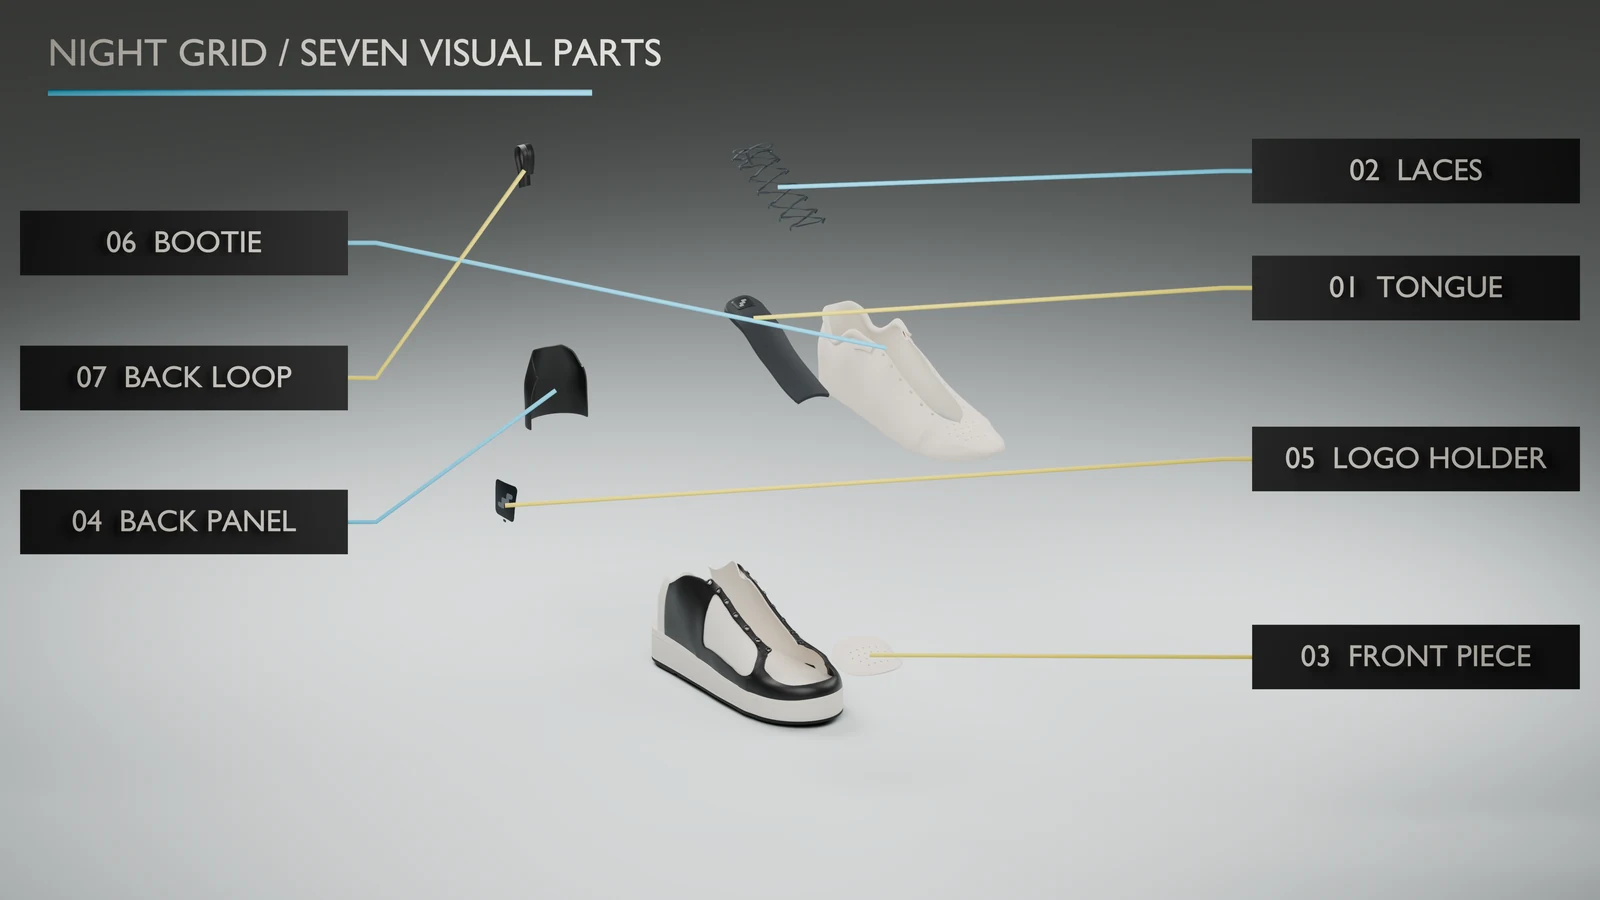
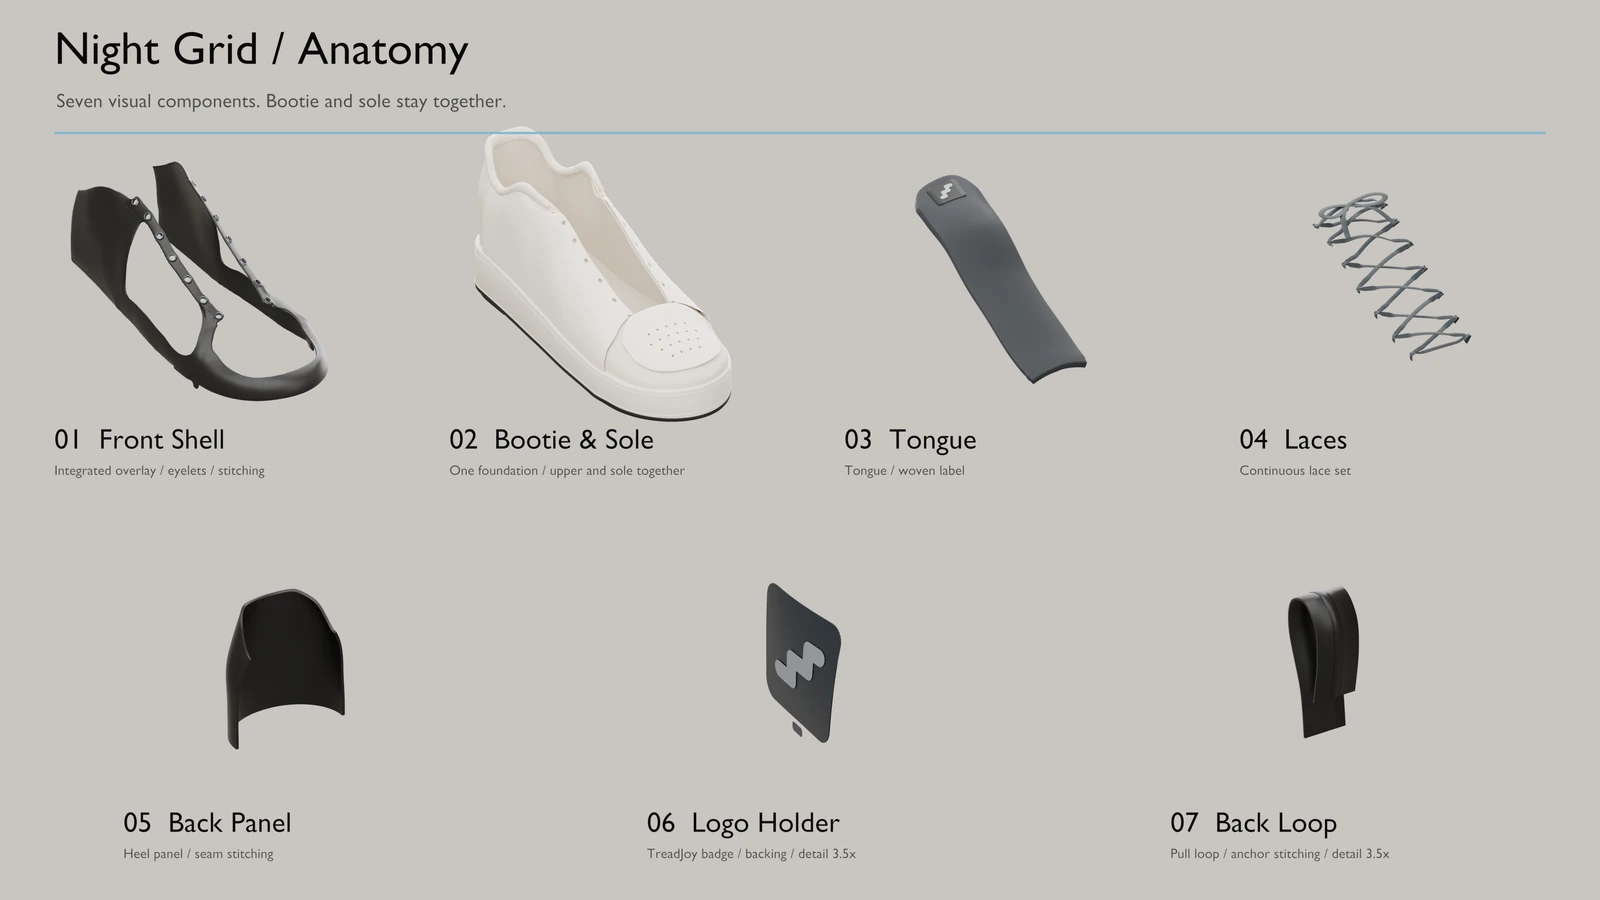
feat: Update Night Grid exploded slot details and visuals; revise alt text and SHA256 hashes

diff --git a/docs/homepage-implementation-decisions.md b/docs/homepage-implementation-decisions.md
@@ -184,6 +184,18 @@ When Figma MCP access returns:
 
 ## Night Grid Exploded Slot 00 — 2026-10-09
 
+### Revision — 2026-10-10
+
+The owner rejected Trial 02's composition and component mapping. Slot 00 now
+uses Trial 03's combined-foundation render. Seven locally labeled component
+views replace crossing leader lines. The front shell includes the dark overlay,
+all 14 eyelets, and its stitching. The bootie, permanent upper panels, and sole
+remain together as one foundation, as explicitly requested by the owner.
+Large soft lights expose dark surface detail against a uniform stone background.
+Parts are framed individually; the badge and pull loop are labeled 3.5x details.
+This updates the visual grouping only, not the engineering module registry.
+The earlier Trial 02 acceptance below is historical and superseded.
+
 ### Approved Scope and Meaning
 
 - The owner requested a Night Grid exploded study that clearly highlights the
